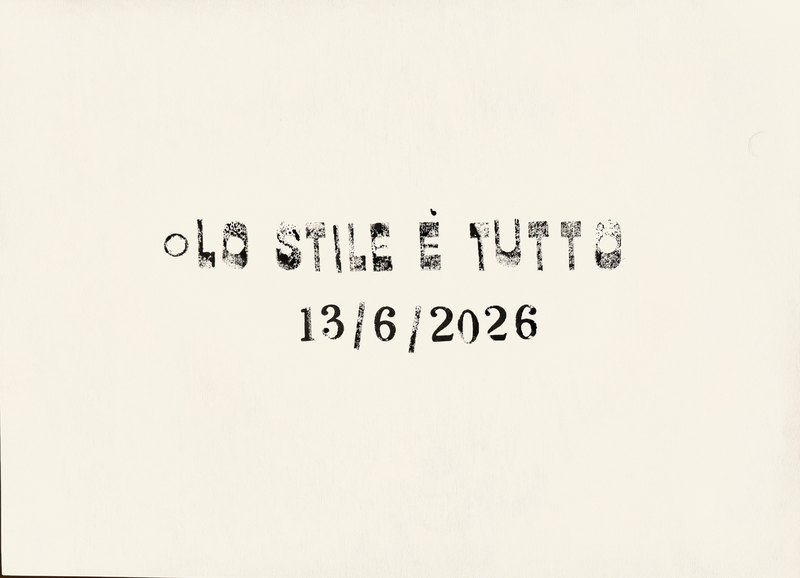
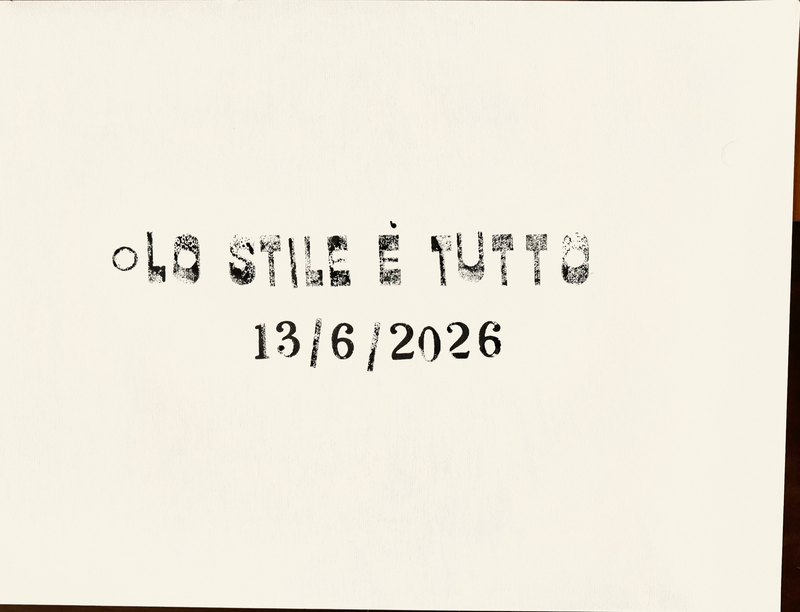
fix: 13/6 + 14/6 - bianco foglio intatto (floodFill, no crop interno)

diff --git a/index.html b/index.html
@@ -662,21 +662,21 @@ section#timbri{ padding-top: clamp(160px, 18vw, 240px); }
 <section class="page" id="timbri">
   <div class="gallery" id="gallery">
     <figure class="work">
-      <div class="work-frame" style="--ratio: 62.39%;">
+      <div class="work-frame" style="--ratio: 63.61%;">
         <img src="foto_definitive/Timbro_2026-06-14.jpg"
              srcset="foto_definitive/thumbs/Timbro_2026-06-14.jpg 800w, foto_definitive/Timbro_2026-06-14.jpg 1800w"
              sizes="(max-width: 720px) 92vw, 720px"
-             width="1800" height="1123"
+             width="1800" height="1145"
              alt="14/6/26" loading="lazy" decoding="async" />
       </div>
       <figcaption class="work-caption"><span class="work-date">14/6/26</span></figcaption>
     </figure>
     <figure class="work">
-      <div class="work-frame" style="--ratio: 72.28%;">
+      <div class="work-frame" style="--ratio: 76.44%;">
         <img src="foto_definitive/Timbro_2026-06-13.jpg"
              srcset="foto_definitive/thumbs/Timbro_2026-06-13.jpg 800w, foto_definitive/Timbro_2026-06-13.jpg 1800w"
              sizes="(max-width: 720px) 92vw, 720px"
-             width="1800" height="1301"
+             width="1800" height="1376"
              alt="13/6/26" loading="lazy" decoding="async" />
       </div>
       <figcaption class="work-caption"><span class="work-date">13/6/26</span></figcaption>
